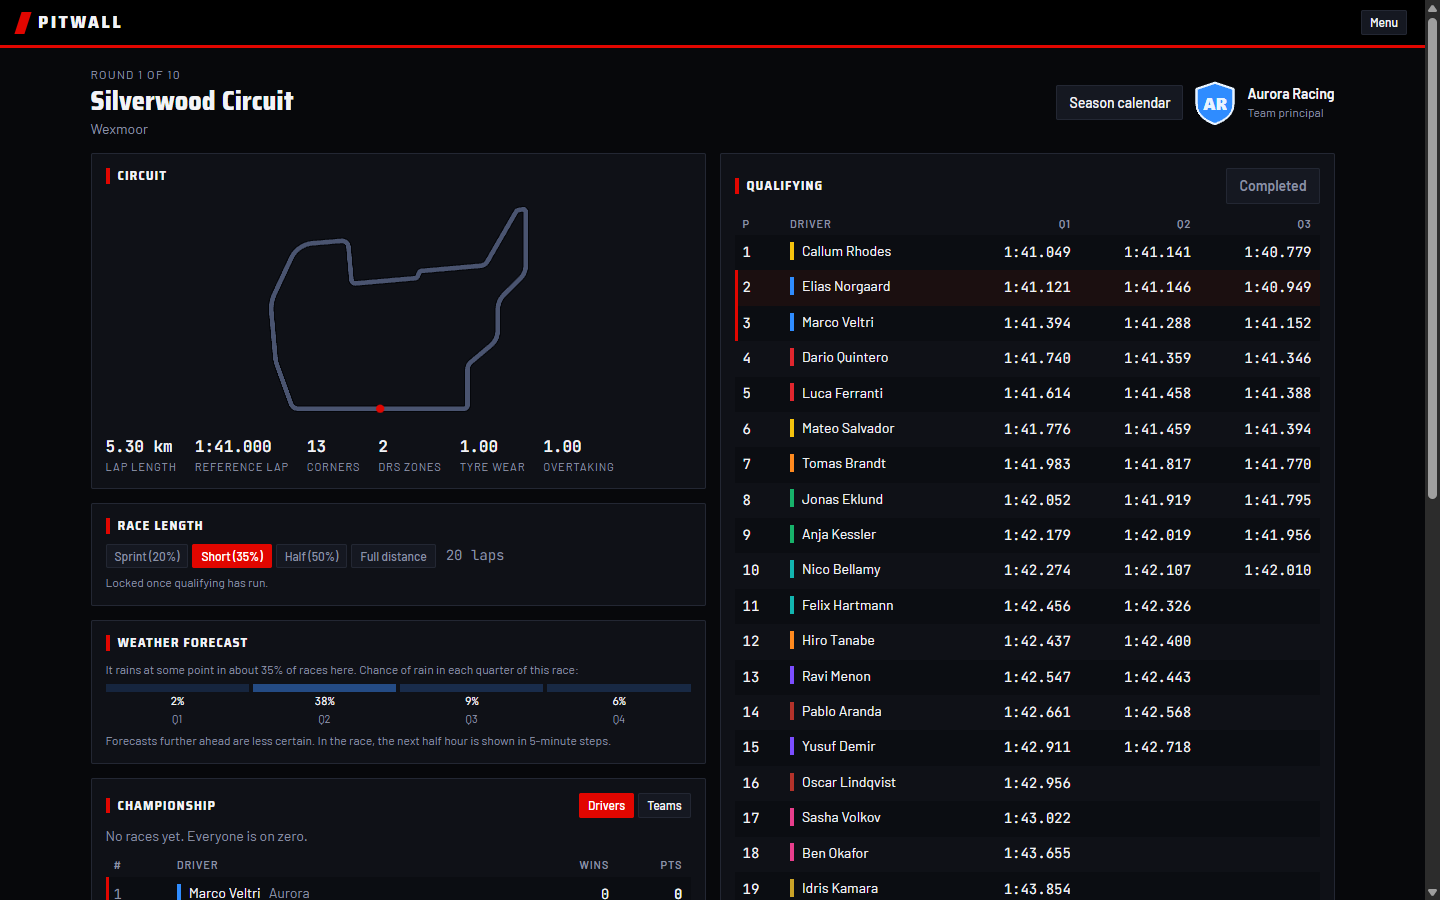
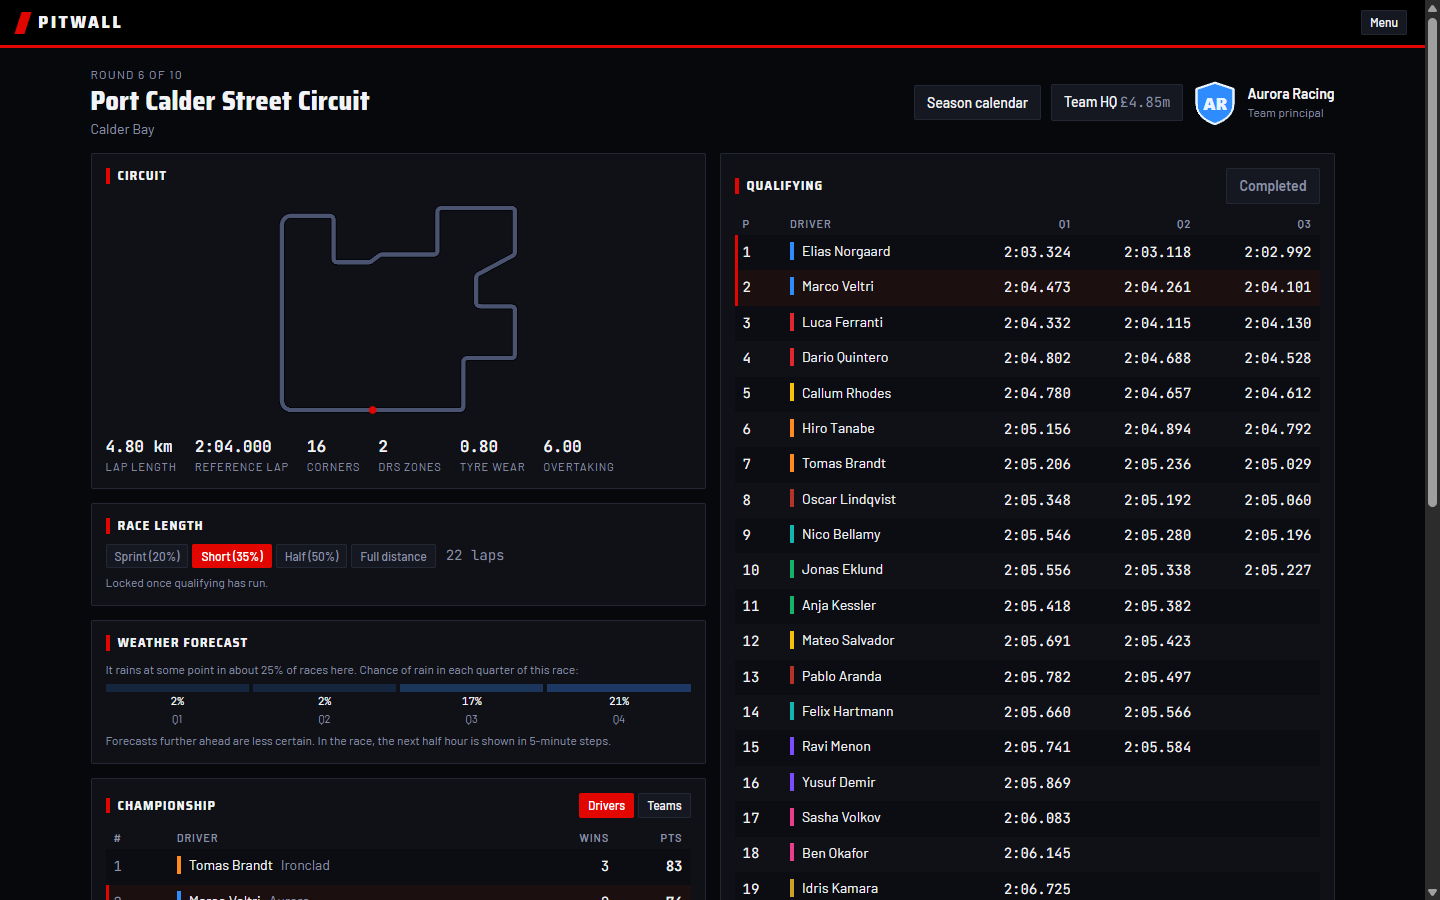
The README and case study show Milestone 5, with new screenshots of Team HQ, results and the season's end.
Two case-study entries cover the save migration and tuning the economy with the season script.
329 tests.

diff --git a/docs/CASE-STUDY.md b/docs/CASE-STUDY.md
@@ -2,7 +2,7 @@
 
 ## What it is
 
-Pitwall is a browser-based Formula-style team manager written in TypeScript. The player runs two cars through a ten-round season on fictional circuits, and watches every car move round a live map while making tyre, fuel and pit-stop calls.
+Pitwall is a browser-based Formula-style team manager written in TypeScript. The player runs two cars through ten-round seasons on fictional circuits, and watches every car move round a live map while making tyre, fuel and pit-stop calls. Between races they spend a budget on car upgrades, sign a sponsor for the season and decide which drivers to keep.
 
 A real-time race simulation has three requirements that pull against each other. It must be deterministic, so a race can be replayed and tested from a seed. It must be plausible, so overtakes, safety cars and retirements land near real-race figures. It must be fun, so the player faces decisions that matter and results that are not foregone. Most of the work went into finding where the simulation failed one of the three, measuring it, and changing the cause.
 
@@ -15,7 +15,9 @@ A real-time race simulation has three requirements that pull against each other.
 | Probability | `src/engine/weather.ts` | A rain forecast built with Bayes' rule, with its reliability measured over 2,000 races per race length |
 | Deterministic design | `src/engine/rng.ts` | `mixSeed(seed, label)` gives each purpose its own random stream, so adding a car or an event does not reshuffle other draws |
 | React architecture | `src/ui/RaceScreen.tsx`, `moments.ts` | A fixed 0.1 s simulation step inside an animation loop, with interpolation, and pausing on the exact step through refs |
-| Testing | `src/**/*.test.ts` | 205 `node:test` tests, including statistical tests (forecast honesty, rain frequency) and geometry tests (every circuit checked for faults) |
+| State management and migrations | `src/state/migrate.ts`, `effectiveTeams.ts` | Saves read from every version the game has written, and the career laid over the editor's teams, so the engine still receives plain team data |
+| Game economy | `scripts/season.ts`, `src/state/finance.ts`, `development.ts`, `sponsors.ts` | Whole careers played headless, spending against not spending, with the targets and the one target missed recorded |
+| Testing | `src/**/*.test.ts` | 329 `node:test` tests, including statistical tests (forecast honesty, rain frequency), geometry tests (every circuit checked for faults) and a real milestone 4 save as a migration fixture |
 | Calibration method | `scripts/calibrate.ts` | Batch runs of 300 headless races compared with real-race targets, recorded in `docs/DESIGN.md` |
 | CI/CD | `.github/workflows/ci.yml`, `deploy.yml` | GitHub Actions runs typecheck, lint, test and build, then deploys to Pages |
 | Accessibility | `src/ui/TimingTower.tsx`, `Conditions.tsx`, `DecisionPrompt.tsx` | A timing tower that works from the keyboard, ARIA meters, and an alert dialog for race decisions |
@@ -113,12 +115,33 @@ A real-time race simulation has three requirements that pull against each other.
 
 **Result.** 11 to 17 corners per circuit, hairpins at 56 to 63 km/h, and chicanes that read as two corners on the map. Over 300 races, overtakes spread from 9 a race at the slowest street circuit to 71 at the power circuit, close to real racing. They fell overall from 63 to 44 a race, a little under the target of 50, because there are fewer places to pass. Tests check every circuit's corner count, its slowest corner, its longest straight and that the pit lane is clear of the rest of the track.
 
+### 10. A new save format that must not lose a season
+
+**Seen.** The management layer needed money, contracts and car development in the save. The milestone 4 save had none of these, and it kept driver points by car seat, which would hand one driver's points to another once drivers change seats.
+
+**Measured.** A real milestone 4 save, three rounds into a season, was captured as a test fixture before anything changed.
+
+**Changed.** Saves carry a version. A milestone 4 save is moved up once, and its old copy is kept as a backup. Every race row records the driver as well as the car, so driver points follow the driver and team points follow the car. Race seeds count rounds across the whole career, so a second season does not replay the first. A save the game cannot read (damaged, made by a newer version, or for a team not on the grid) is reported on the menu and replaced only after the player confirms.
+
+**Result.** The fixture loads with every standing and every race seed unchanged. Tests cover the newer, damaged and off-grid cases, and a season moved up from milestone 4 was played on to its end in the browser.
+
+### 11. An economy where the leader could buy everything
+
+**Seen.** The first version of money and car upgrades paid the strongest team about £4m a race in prize money. Rivals spent their budgets on their weakest areas, where points are cheapest, so the field slowly closed up.
+
+**Measured.** `npm run season` plays three seasons headless for four teams, with a policy that buys the most lap time per pound against one that never spends. In the first run the strongest team spent its car up to 99 and opened the gap between the fastest and slowest car to 29.5 points, against 22.6 when it kept its money. With a midfield team as the player, the gap shrank every season: 23.0, 22.0, 21.7. A spending midfield team finished between half a place and 1.2 places higher than one that kept its money. The first sponsor objectives were either nearly free (a top 19 finish for the slowest car was met in 86 to 100% of races) or close to impossible (beating the team two places up was met in 3 to 21% of races).
+
+**Changed.** Prize money fell from £0.1m to £0.04m a point, and every team is paid £0.6m for starting. Each rival's budget is scaled by what its own level costs, so every rival gains about the same points a round. A point costs more with the fourth power of a rating's distance towards 99, so one at 92 costs about twice one at 84. Sponsor objectives were reset to a top N set by where the car ranks, and to beating the team one place up.
+
+**Result.** Over three seeds (`npm run season -- --seasons 3 --seeds 3`), with a midfield team as the player the gap held at 23.9, 23.6 and 24.0 points over three seasons, and the strongest team spending everything opened it by 3.3 to 3.9. Sponsor objectives were met in 79 to 93% of races for safe deals, 39 to 80% for balanced and 14 to 68% for ambitious. From its second season, a team that spends finishes about a place higher than one that does not. The aim was two places, so the gap is recorded as a known limit.
+
 ## Run it
 
 ```
 npm install
 npm test
 npm run calibrate -- --seeds 30
+npm run season -- --seasons 3 --seeds 3
 ```
 
 The full setup is in the [README](../README.md) and the architecture is in [docs/DESIGN.md](DESIGN.md).

diff --git a/README.md b/README.md
@@ -8,20 +8,26 @@ Everything in it is fictional (teams, drivers, circuits), and everything is edit
 
 ![Race screen](docs/screenshots/race.png)
 
-| Weekend planning | Results | Team editor |
+| Weekend planning | Results | Team HQ |
 | --- | --- | --- |
-| ![Weekend](docs/screenshots/weekend.png) | ![Results](docs/screenshots/results.png) | ![Editor](docs/screenshots/team-editor.png) |
+| ![Weekend](docs/screenshots/weekend.png) | ![Results](docs/screenshots/results.png) | ![Team HQ](docs/screenshots/team-hq.png) |
+| **Season end** | **Team editor** | |
+| ![Season end](docs/screenshots/season-end.png) | ![Editor](docs/screenshots/team-editor.png) | |
+
+The careers in these screenshots were played headless with the game's own engine, then opened in the game.
 
 ## What this project shows
 
-Pitwall is a real-time race simulation that has to be deterministic, plausible and fun. The [case study](docs/CASE-STUDY.md) maps each skill to the code that shows it, then tells nine problems as seen, measured, changed and result.
+Pitwall is a real-time race simulation that has to be deterministic, plausible and fun. The [case study](docs/CASE-STUDY.md) maps each skill to the code that shows it, then tells eleven problems as seen, measured, changed and result.
 
 - **Modelling and algorithms:** circuits built from real corner radii, tyre wear, weather, strategy search, 10 m checkpoint gap timing.
 - **Probability:** a Bayesian rain forecast, checked over 2,000 races per race length.
 - **Deterministic design:** a separate seeded random stream for each purpose.
 - **Calibration:** 300 headless races per tuning run, compared with real-race targets.
+- **Game economy:** whole careers played headless, spending against not spending, and the money tuned to what they showed.
+- **State and saves:** versioned saves. A milestone 4 save moves up once and stays as a backup, and a save the game cannot read is reported on the menu and kept until the player chooses to replace it.
 - **React architecture:** a fixed 0.1 s step inside an animation loop, pausing on the exact step.
-- **Testing and CI:** 327 tests, with GitHub Actions running typecheck, lint, test, build and deploy.
+- **Testing and CI:** 329 tests, with GitHub Actions running typecheck, lint, test, build and deploy.
 - **Accessibility:** a keyboard-operable timing tower, ARIA meters and dialogs.
 
 ## What is in the game
@@ -77,9 +83,9 @@ Pushing to `main` runs tests and the build, then deploys `dist/` to GitHub Pages
 ```
 src/engine/   simulation (no UI imports): track, tyres, race, strategy, qualifying, scoring
 src/data/     fictional teams, drivers and circuits
-src/state/    season, standings and localStorage persistence
+src/state/    seasons, standings, saves and their migration, money, car development, sponsors, contracts
 src/ui/       React components: track map, timing tower, pit wall, hub, results, team editor
-scripts/      headless race runner and circuit inspector
+scripts/      headless race runner, calibration, season balance and circuit inspector
 ```
 
 ## Tech
@@ -88,4 +94,4 @@ TypeScript (strict), React 19, Vite 7, Node's built-in test runner, ESLint 9, Gi
 
 ## Status
 
-The core loop (strategy, qualifying, race, standings) over a ten-round calendar is playable. Planned next: R&D and budget, driver contracts and sponsors. All names are invented and not affiliated with any real championship.
+Ten-round seasons, one after another, are playable: strategy, qualifying, the race and the standings, with a budget, car development, a sponsor and driver contracts between races. Planned next: drivers who develop, and a transfer market in which rival teams sign drivers too. All names are invented and not affiliated with any real championship.

diff --git a/docs/DESIGN.md b/docs/DESIGN.md
@@ -135,7 +135,7 @@ The player's two drivers talk on the team radio (`src/ui/radio.ts`). They react 
 
 ## Testing
 
-`node --test` with native TypeScript type stripping, so there are no test dependencies. Covered: RNG, formatting, track geometry, strategy planner, race simulation (determinism, classification, lap and sector plausibility, fuel and wear bounds, car spacing, pit loss, safety car bunching, gaps after the flag, hazard scaling with distance, AI pace choices, auto mode, scoring), pit rejoin estimates, the key moments that pause a race, weather (rain frequency, forecast honesty and sharpness, wet tyre crossovers, wetting and drying, rival tyre changes, wet starts, a dry race unchanged by the weather model), and season standings.
+`node --test` with native TypeScript type stripping, so there are no test dependencies. Covered: RNG, formatting, track geometry, strategy planner, race simulation (determinism, classification, lap and sector plausibility, fuel and wear bounds, car spacing, pit loss, safety car bunching, gaps after the flag, hazard scaling with distance, AI pace choices, auto mode, scoring), pit rejoin estimates, the key moments that pause a race, weather (rain frequency, forecast honesty and sharpness, wet tyre crossovers, wetting and drying, rival tyre changes, wet starts, a dry race unchanged by the weather model), season standings, and the management layer: save migration from a real milestone 4 save, money, car development and rival progress, sponsors and their objectives, contracts and the change of season.
 
 ## Known limits
 
